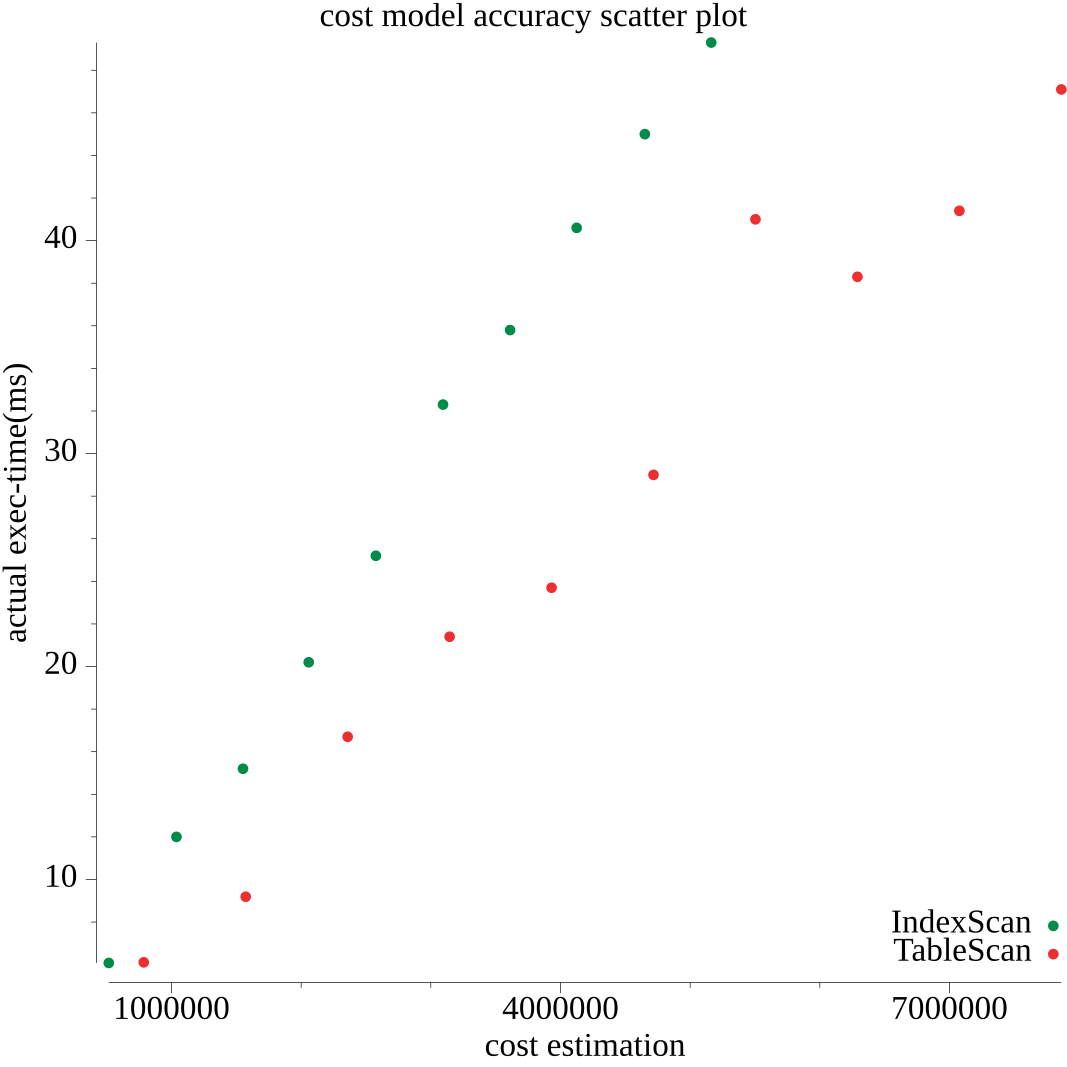
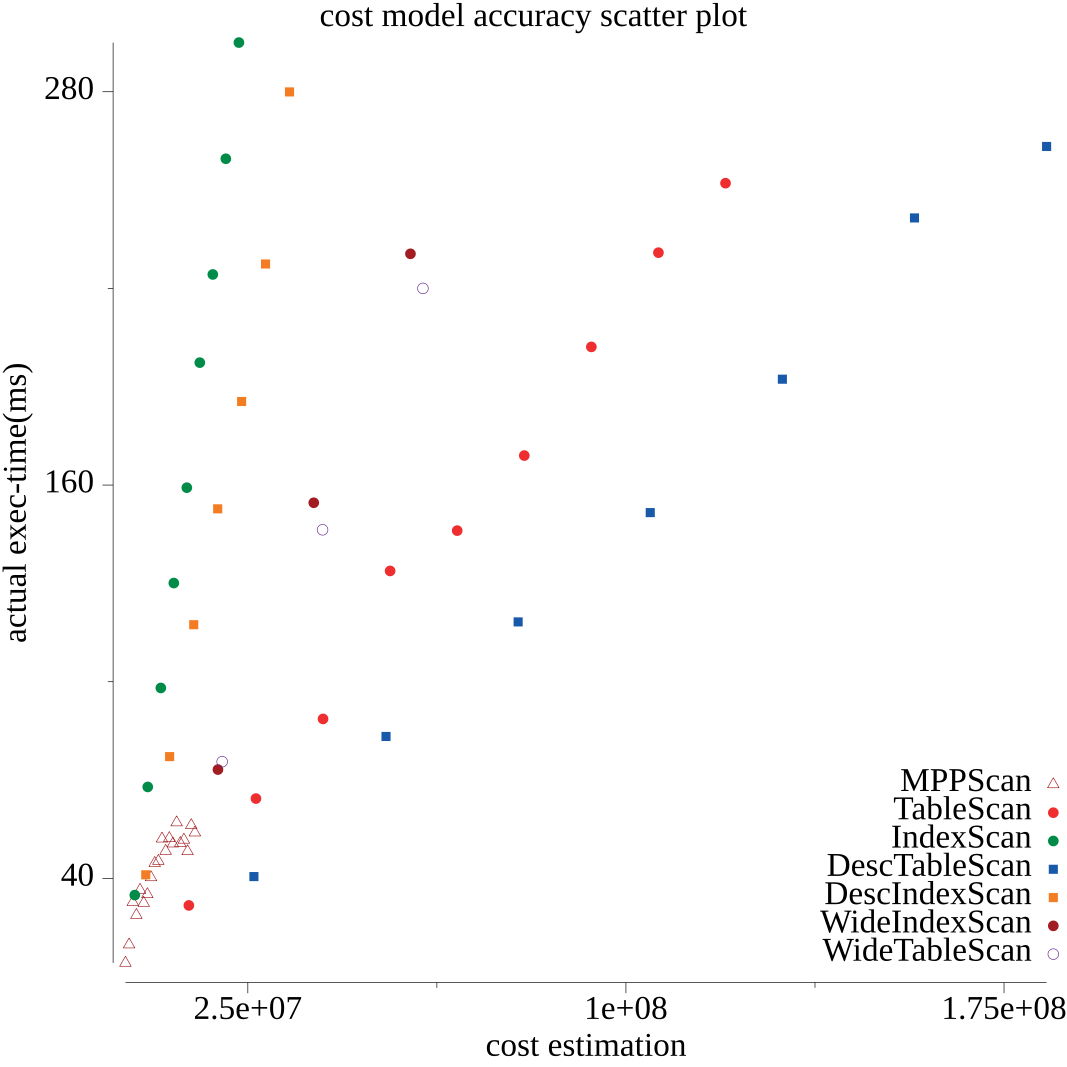
fixup

diff --git a/cost/costeval.go b/cost/costeval.go
@@ -32,8 +32,8 @@ func CostEval() {
 		//{"imdb", "imdb", "calibrated", 30, 2, 3000},
 		//{"tpch1g", "tpch", "original", 2, 1, 2000},
 		//{"tpch1g", "tpch", "calibrated", 30, 2, 2000},
-		{"synthetic", "synthetic", "original", 20, 2, 3000},
-		{"synthetic", "synthetic", "calibrated", 20, 2, 3000},
+		//{"synthetic", "synthetic", "original", 20, 2, 300},
+		{"synthetic", "synthetic", "calibrated", 20, 2, 300},
 		//{"synthetic", "synthetic", "calibrating", 20, 2, 3000},
 	}
 
@@ -42,7 +42,7 @@ func CostEval() {
 		evalOnDataset(ins, opt)
 	}
 	//drawSummary(opts)
-	//genSyntheticData(ins, 100000, "synthetic")
+	//genSyntheticData(ins, 1000000, "synthetic")
 }
 
 type evalOpt struct {
@@ -127,9 +127,9 @@ func evalOnDataset(ins tidb.Instance, opt *evalOpt) {
 		if r.Label == "IndexLookup" {
 			continue
 		}
-		if strings.Contains(r.Label, "Wide") || strings.Contains(r.Label, "Desc") {
-			continue
-		}
+		//if strings.Contains(r.Label, "Wide") || strings.Contains(r.Label, "Desc") {
+		//	continue
+		//}
 		//if opt.dataset == "synthetic" && r.TimeMS > 200 {
 		//	continue
 		//}

diff --git a/cost/util.go b/cost/util.go
@@ -84,6 +84,9 @@ func setCostFactors(ins tidb.Instance, factors CostFactors) {
 		fmt.Println(sql)
 		ins.MustExec(sql)
 	}
+	tiflashScan := fmt.Sprintf("set @@tidb_opt_tiflash_scan_factor=%v;", factors[3]/10)
+	fmt.Println(tiflashScan)
+	ins.MustExec(tiflashScan)
 }
 
 func readCostFactors(ins tidb.Instance) (factors CostFactors) {
